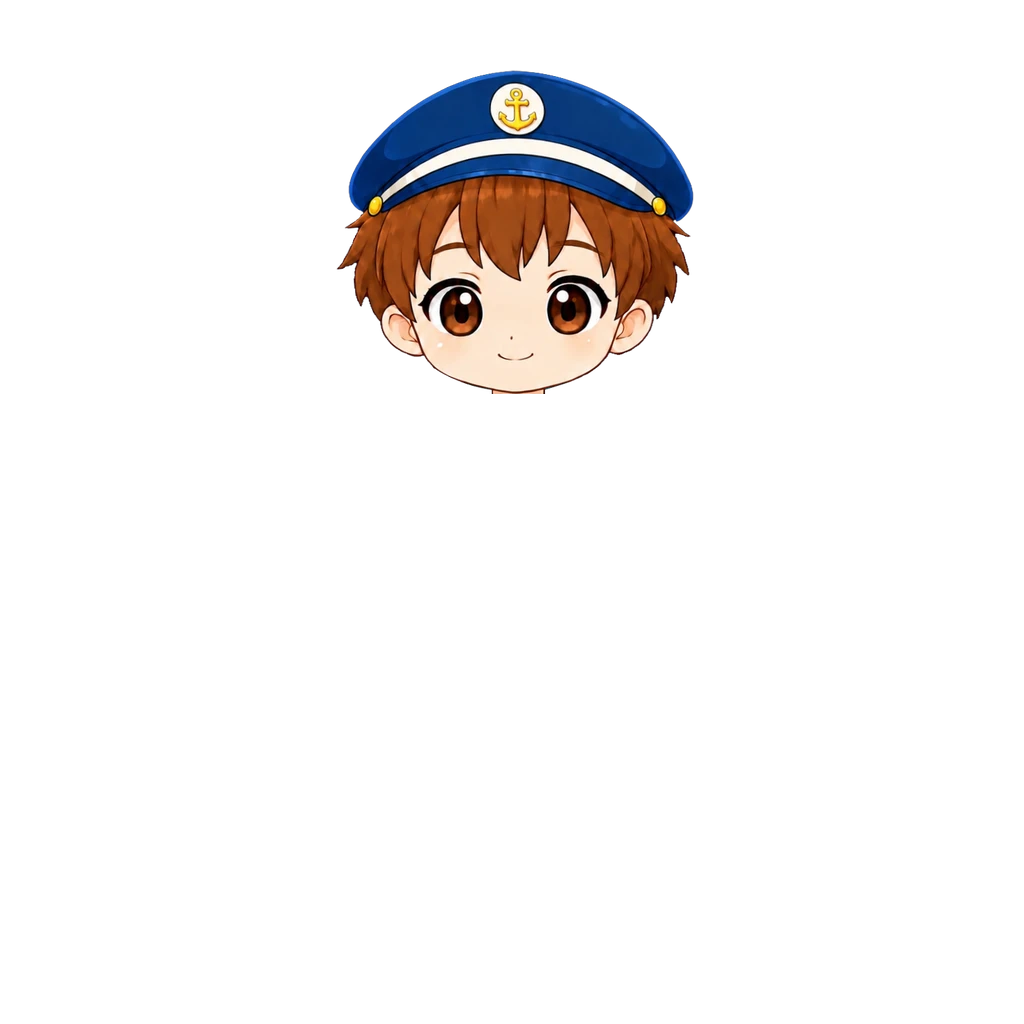
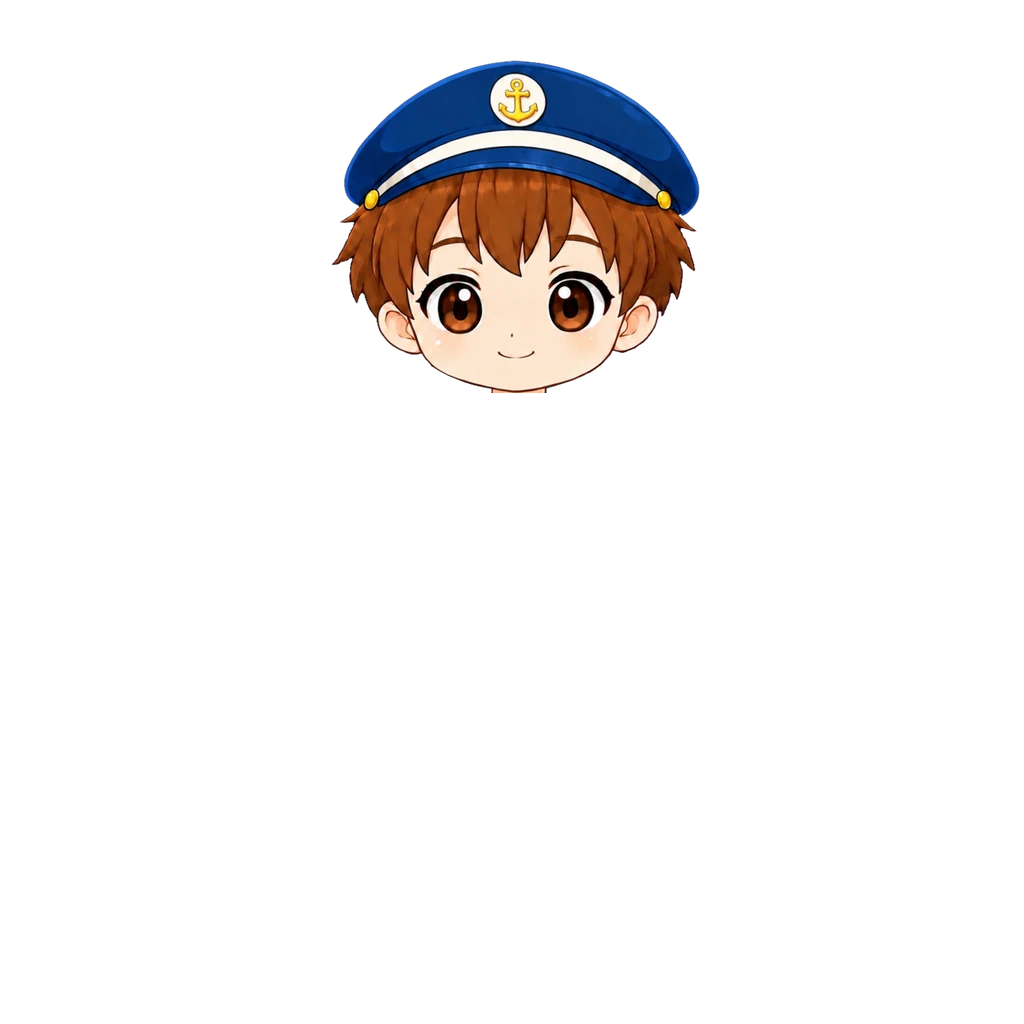
꼬마선장 모자(남아) 3% 크게 (#913)
턱·얼굴 가운데 고정으로 배율 0.684→0.7045. img ?v=2.

Claude-Session: https://claude.ai/code/session_018maNuYqDfFyRSe9uKpZhPR

Changed region(s): [[0.3125, 0.0625, 0.6875, 0.375], [0.4688, 0.375, 0.5312, 0.4062]]

diff --git a/src/data/avatarEquipment.js b/src/data/avatarEquipment.js
@@ -296,8 +296,9 @@ export const AVATAR_CATALOG = [
   { id: "hat_acorn_boy",  slot: "hat",   label: "도토리 모자", emoji: "🌰", price:DECOR_PRICE.rare, rarity: "rare", theme: "common", forGender: "boy", hidesHead: true, img: "assets/avatar/hat/acorn-hat-boy.webp?v=3", thumb: "assets/avatar/thumb/hat_acorn_boy.webp" },
   /* 꼬마선장 모자 [2026-10-05] — 남아. 파란 선장 모자(흰 띠·닻 배지) + 얼굴 한 장(사용자 원화 524×473).
      번개 캡모자와 같은 방식(hidesHead) — 얼굴(눈~입) 템플릿 매칭(일치 0.907)으로 배율 0.684, 원점 (336,70). y404 아래 자름.
-     탑재 상자 (336,70,694,394). */
-  { id: "hat_captain_boy", slot: "hat",  label: "꼬마선장 모자", emoji: "⚓", price:DECOR_PRICE.rare, rarity: "rare", theme: "common", forGender: "boy", hidesHead: true, img: "assets/avatar/hat/captain-hat-boy.webp", thumb: "assets/avatar/thumb/hat_captain_boy.webp" },
+     탑재 상자 (336,70,694,394).
+     [2026-10-05] 사용자 조정 — 3% 크게(배율 0.7045, 턱·얼굴 가운데 고정, 원점 (331,60)). 탑재 상자 (331,60,700,393). img ?v=2. */
+  { id: "hat_captain_boy", slot: "hat",  label: "꼬마선장 모자", emoji: "⚓", price:DECOR_PRICE.rare, rarity: "rare", theme: "common", forGender: "boy", hidesHead: true, img: "assets/avatar/hat/captain-hat-boy.webp?v=2", thumb: "assets/avatar/thumb/hat_captain_boy.webp" },
   /* 사파리 옷 — 원화가 블라우스+반바지 한 장이라 상의 슬롯 하나로 넣는다(사용자 확정).
      상의(35)가 하의(30) 위라 하의를 같이 껴도 이 그림이 덮는다. */
   /* [2026-08-20] 남아 원화가 들어와 남녀 공용이 됐다 — 그림이 성별로 갈리는 첫 아이템.

diff --git a/art-src/README.md b/art-src/README.md
@@ -621,4 +621,4 @@ bbox로 여백만 잘라내고 배포본은 높이 480px로 축소했다(전부 
 | action-camera-src.webp | **탐험 카메라 원화 남녀 공용 (사용자 원화 2026-10-04)** — 156×276 투명 배경, 검은 액션 카메라 + 카키 끈. 첫 목 장식. 배율 0.62, 끈 가운데를 목 가운데에, 끈 위끝을 목·어깨 만나는 높이(남아 y392·여아 y356)에 맞춰 성별마다 따로 탑재. 남아 상자 (467,392,564,563) · 여아 상자 (465,356,562,527). **[2026-10-05 조정]** 남아만 아래로 5·왼쪽 2, 남아 상자 (465,397,562,568) · img ?v=2. 남아만 4% 크게(0.6448), 상자 (463,397,564,575) · img ?v=3. 남아만 2% 더 크게(0.6577), 상자 (462,397,565,579) · img ?v=4. 여아만 왼쪽 6·아래로 4, 상자 (459,360,556,531) · imgGirl ?v=2. 여아만 2% 작게(0.6076), 상자 (460,360,555,528) · imgGirl ?v=3. 여아만 오른쪽 2·아래로 3, 상자 (462,363,557,531) · imgGirl ?v=4. 여아만 오른쪽 1·아래로 4 더, 상자 (463,367,558,535) · imgGirl ?v=5. 상점 그림은 원화를 세로 160px 로 | avatar/neck/action-camera-boy.webp · action-camera-girl.webp · thumb/neck_camera.webp |
 | swim-goggles-boy-src.webp | **물안경 원화 남아 (사용자 원화 2026-10-05)** — 366×154 투명 배경, 하늘색 물안경 + 렌즈 안 눈 그림. 첫 얼굴 장식. 렌즈 속 눈을 기본 머리 눈에 템플릿 매칭(일치 0.915)해 배율 0.670·원점 (392,255). 탑재 상자 (392,255,637,358). 상점 그림은 원화를 세로 160px 로 | avatar/face/swim-goggles-boy.webp · thumb/face_goggles_boy.webp |
 | acorn-hat-boy-src.webp | **도토리 모자 원화 남아 — 모자+얼굴 한 장 (사용자 원화 2026-10-05)** — 갈색 도토리 비니(새싹 꼭지). hidesHead 로 기본 머리를 대신한다. 얼굴 템플릿 매칭(일치 0.893)으로 배율 0.672·원점 (341,46), y404 아래 자름. 탑재 상자 (342,46,690,397). **[2026-10-05 조정]** 3% 크게(0.6922, 원점 (336,36)) · img ?v=2. 아래로 2(원점 (336,38)) · img ?v=3. 상점 그림은 원화를 세로 160px 로 | avatar/hat/acorn-hat-boy.webp · thumb/hat_acorn_boy.webp |
-| captain-hat-boy-src.webp | **꼬마선장 모자 원화 남아 — 모자+얼굴 한 장 (사용자 원화 2026-10-05)** — 파란 선장 모자(흰 띠·닻 배지). hidesHead 로 기본 머리를 대신한다. 얼굴 템플릿 매칭(일치 0.907)으로 배율 0.684·원점 (336,70), y404 아래 자름. 탑재 상자 (336,70,694,394). 상점 그림은 원화를 세로 160px 로 | avatar/hat/captain-hat-boy.webp · thumb/hat_captain_boy.webp |
+| captain-hat-boy-src.webp | **꼬마선장 모자 원화 남아 — 모자+얼굴 한 장 (사용자 원화 2026-10-05)** — 파란 선장 모자(흰 띠·닻 배지). hidesHead 로 기본 머리를 대신한다. 얼굴 템플릿 매칭(일치 0.907)으로 배율 0.684·원점 (336,70), y404 아래 자름. 탑재 상자 (336,70,694,394). **[2026-10-05 조정]** 3% 크게(0.7045, 원점 (331,60)) · img ?v=2. 상점 그림은 원화를 세로 160px 로 | avatar/hat/captain-hat-boy.webp · thumb/hat_captain_boy.webp |
